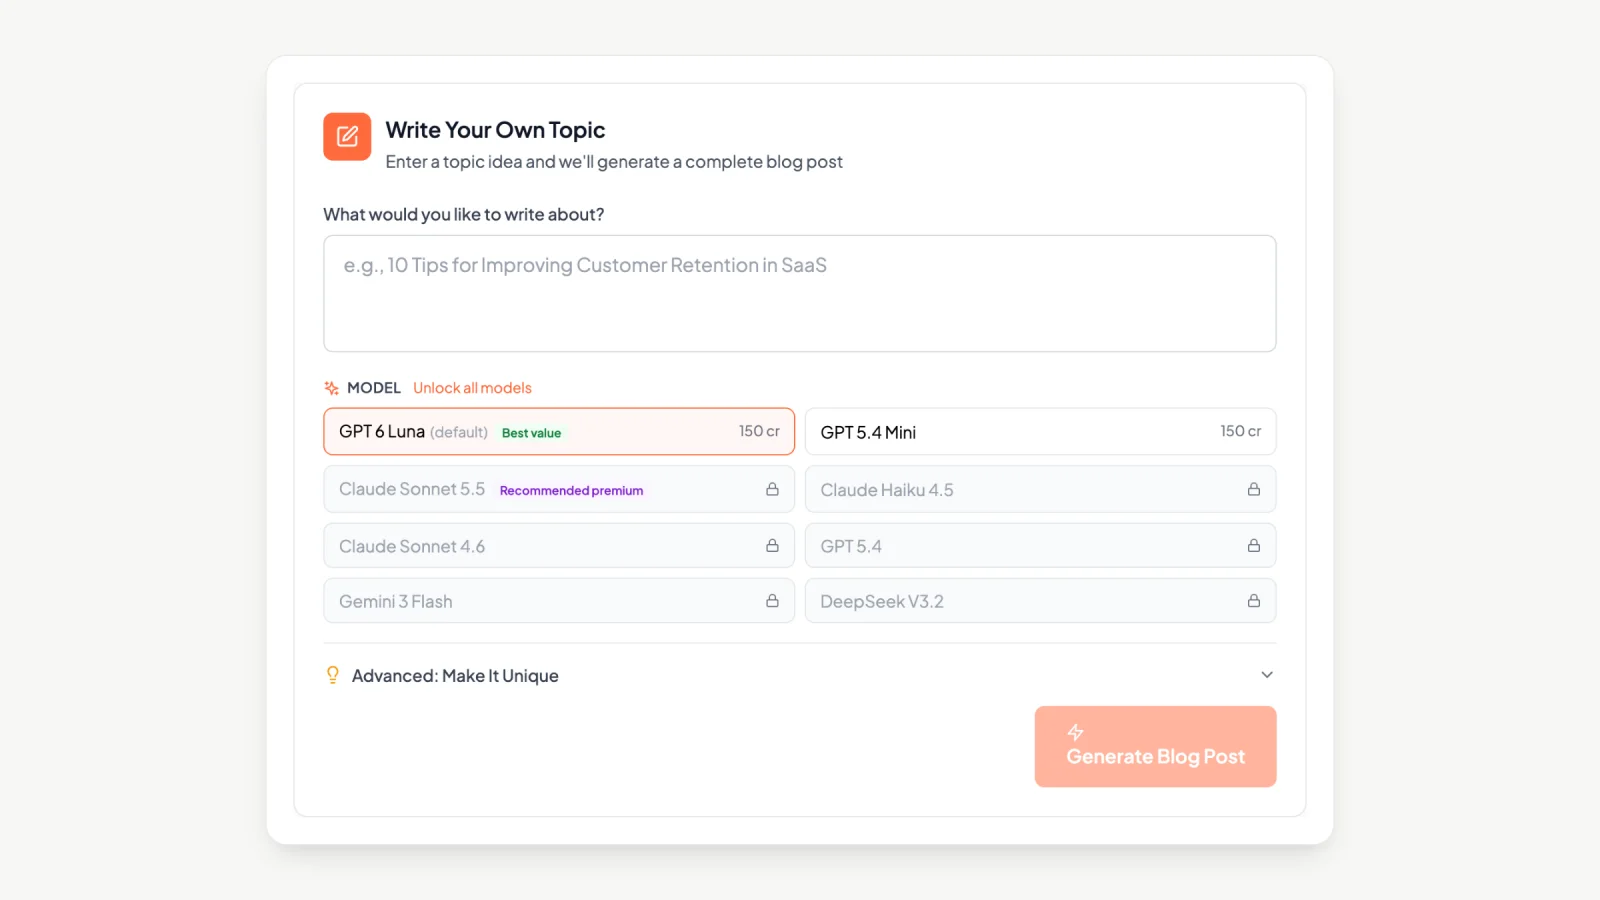
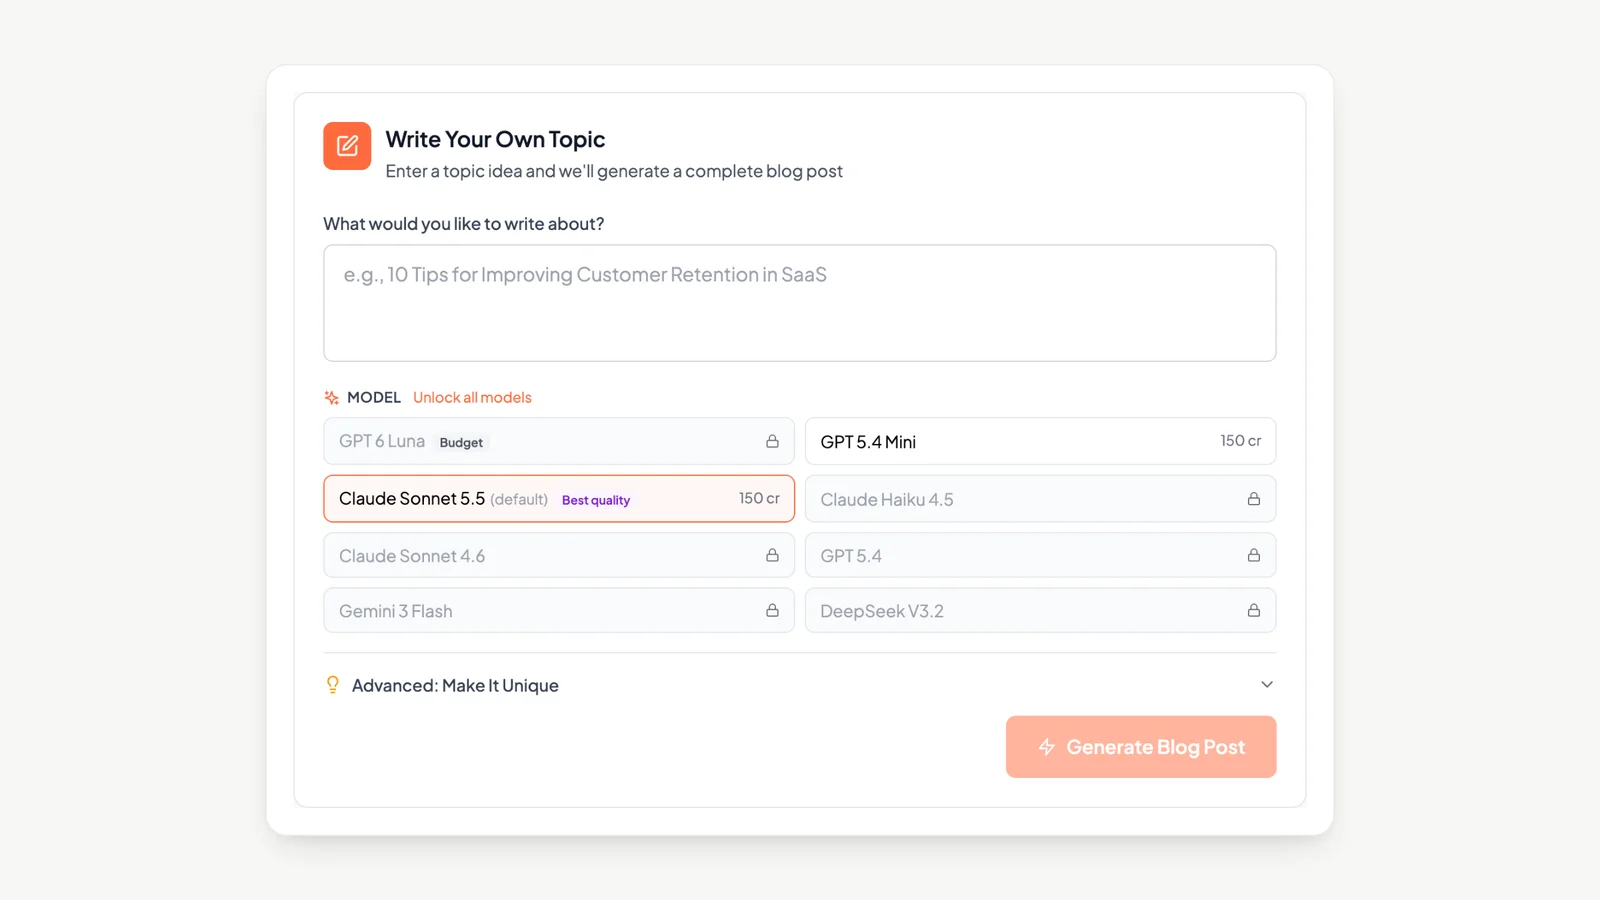
Retake product shots with the Harbor & Pine example post
Replace the old "Google Ranking Without an Index" post in the homepage
showcase, How It Works step 3, the SEO meta slide and the guide graphics
with the water-heater draft written for the made-up Harbor & Pine
Plumbing. Retake the model pickers so they show Claude Sonnet 5.5 as the
default. Update alt text and captions to match, and the llms.txt line for
the SEO MCP post (15 tools, 10 read-only).

diff --git a/lib/product-shots.ts b/lib/product-shots.ts
@@ -19,8 +19,8 @@ const shot = (file: string, width: number, height: number, alt: string, caption:
 
 export const SHOWCASE_WIDE = shot(
   "showcase-wide.webp", 1600, 574,
-  "Draftly's setup screen with draftly.blog entered as the website URL, and the finished blog post it produced one to two minutes later: 1,296 words, an SEO score of 75 out of 100, and the opening section of the article",
-  "A website URL in, a 1,296-word draft with an SEO score out, in one to two minutes.",
+  "Draftly's setup screen with harborandpineplumbing.com entered as the website URL, beside an example draft Claude Sonnet 5.5 wrote for Harbor & Pine Plumbing, a made-up plumber: How Often to Flush a Water Heater: A Homeowner's Guide, 1,118 words, an SEO score of 60 out of 100, and the opening section of the article",
+  "A website URL in, a 1,118-word draft with an SEO score out, in one to two minutes.",
 );
 export const SHOWCASE_TALL = shot("showcase-tall.webp", 800, 1125, SHOWCASE_WIDE.alt, SHOWCASE_WIDE.caption);
 
@@ -33,8 +33,8 @@ export const STEP_SHOTS: ProductShot[] = [
     "Draftly's Blog Inspiration panel listing trending industry articles from Search Engine Journal, each with an Add Your Take button",
     "Trending articles from your industry, each one a click away from a post."),
   shot("how-3-post.webp", 900, 614,
-    "A Draftly draft titled Google ranking without an index: what it means for your SEO, with question-style subheadings and a linked source",
-    "The draft: question-style headings, a cited source and plain sentences."),
+    "A Draftly draft titled How Often to Flush a Water Heater: A Homeowner's Guide, opening with question-style subheadings such as How often should you flush your water heater? and Why does a water heater need a flush?",
+    "The draft: question-style headings, the answer first and plain sentences."),
 ];
 
 /** The homepage feature carousel: number, title and description sit above each equal-size (4:3) image. */
@@ -53,16 +53,16 @@ export const FEATURE_SLIDES: FeatureSlide[] = [
   },
   {
     title: "Your topic, your model",
-    description: "Type any topic and pick the model that writes it. GPT 6 Luna is the default, and paid plans unlock Claude, Gemini and DeepSeek.",
+    description: "Type any topic and pick the model that writes it. Claude Sonnet 5.5 is the default, and paid plans unlock the rest, including GPT 6 Luna, Gemini and DeepSeek.",
     shot: shot("feature-slide-models.webp", 1600, 1200,
-      "Draftly's Write Your Own Topic screen with a topic box and a model picker: GPT 6 Luna (default), GPT 5.4 Mini, Claude Sonnet 5.5, Claude Haiku 4.5, Claude Sonnet 4.6, GPT 5.4, Gemini 3 Flash and DeepSeek V3.2",
-      "Pick the model per post. Paid plans unlock Claude, Gemini and DeepSeek."),
+      "Draftly's Write Your Own Topic screen on the Free plan with a topic box and a model picker: Claude Sonnet 5.5 (default, Best quality, 150 credits) selected, GPT 5.4 Mini at 150 credits, and GPT 6 Luna (Budget), Claude Haiku 4.5, Claude Sonnet 4.6, GPT 5.4, Gemini 3 Flash and DeepSeek V3.2 locked",
+      "Pick the model per post. Paid plans unlock the rest, including GPT 6 Luna, Gemini and DeepSeek."),
   },
   {
     title: "SEO meta, drafted every time",
     description: "Every draft comes with a URL slug, a meta title and a meta description, sized for how they show in Google.",
     shot: shot("feature-slide-meta.webp", 1600, 1200,
-      "SEO fields Draftly wrote for a post (URL slug, meta title and meta description) and a preview of how that title and description can appear in a Google result",
+      "SEO fields Draftly wrote for an example water heater post (URL slug how-often-to-flush-water-heater, meta title and meta description) and a preview of how that title and description can appear in a Google result for a made-up plumber, Harbor & Pine Plumbing",
       "Slug, meta title and meta description come with every draft."),
   },
 ];
@@ -70,7 +70,7 @@ export const FEATURE_SLIDES: FeatureSlide[] = [
 /** Equal 16:10 thumbnails for the homepage guide cards, keyed by destination. */
 export const GUIDE_THUMBS: Record<string, ProductShot> = {
   "/ai-copywriter": shot("guide-thumb-ai-copywriter.webp", 1280, 800,
-    "Preview of the AI copywriter page: a website URL going into Draftly and a finished 1,296-word draft coming out", ""),
+    "Preview of the AI copywriter page: a website URL going into Draftly and a finished 1,118-word draft about flushing a water heater coming out", ""),
   "/seo-copywriting": shot("guide-thumb-seo-copywriting.webp", 1280, 800,
     "Preview of the SEO copywriting rules page: a generic AI paragraph with four flagged rules beside a Draftly draft with none", ""),
   "/best-ai-for-writing": shot("guide-thumb-best-ai.webp", 1280, 800,
@@ -92,8 +92,8 @@ export const INTEGRATIONS_SHOT = shot(
 /** 16:9 graphics for the long-form guide pages (/ai-copywriter, /seo-copywriting, /ai-seo-agency-vs-tool). */
 export const GUIDE_SHOTS = {
   urlToPost: shot("guide-url-to-post.webp", 1600, 900,
-    "Draftly's setup screen with a website URL entered, and the finished post it produced: 1,296 words, SEO score 75/100, Draft status and the opening of the article",
-    "A real first run: a URL in, a 1,296-word draft with SEO meta out."),
+    "Draftly's setup screen with harborandpineplumbing.com entered, beside an example draft Claude Sonnet 5.5 wrote for that made-up plumber: How Often to Flush a Water Heater: A Homeowner's Guide, 1,118 words, SEO score 60/100, Draft status and the opening of the article",
+    "A URL in, a 1,118-word draft with SEO meta out. The example plumber is made up."),
   genericVsDraftly: shot("guide-generic-vs-draftly-copy.webp", 1600, 900,
     "A generic AI paragraph with flagged phrases highlighted (banned_vocabulary, contrast_phrasing, hedging, mechanical_openers) beside the opening of an example Draftly post about flushing a water heater, written by Claude Sonnet 5.5 for a made-up plumber, that triggers none of them",
     "Draftly's checker flags four rules in the generic paragraph and none in the example Draftly draft."),
@@ -101,11 +101,11 @@ export const GUIDE_SHOTS = {
     "Draftly's Voice and Tone sliders: Friendly 75, Authoritative 80, Formal 40, Technical 55 and Empathetic 85",
     "Brand voice sliders, set from your site and adjustable any time."),
   seoMeta: shot("guide-seo-meta-fields.webp", 1600, 900,
-    "SEO fields Draftly wrote for a post: URL slug, meta title and meta description",
+    "SEO fields Draftly wrote for an example water heater post: URL slug how-often-to-flush-water-heater, meta title How Often to Flush a Water Heater: A Homeowner's Guide, and meta description",
     "Slug, meta title and meta description come with every draft."),
   modelPicker: shot("guide-model-picker.webp", 1600, 900,
-    "Draftly's Create Blog Post screen with a model picker listing GPT, Claude, Gemini and DeepSeek models and their credit cost",
-    "Pick the model per post. Paid plans unlock Claude, Gemini and DeepSeek."),
+    "Draftly's Write Your Own Topic screen with a model picker: Claude Sonnet 5.5 selected as the default (Best quality, 150 credits), GPT 5.4 Mini at 150 credits, and GPT 6 Luna (Budget), Claude, GPT, Gemini and DeepSeek models locked on the Free plan",
+    "Pick the model per post. Paid plans unlock the rest, including GPT 6 Luna, Gemini and DeepSeek."),
 } satisfies Record<string, ProductShot>;
 
 export const ALL_PRODUCT_SHOTS = [SHOWCASE_WIDE, ...STEP_SHOTS, ...FEATURE_SLIDES.map((f) => f.shot), INTEGRATIONS_SHOT];

diff --git a/lib/llms.ts b/lib/llms.ts
@@ -55,7 +55,7 @@ ${toolsTable()}
 - [SEO Copywriting Rules](${SITE_URL}/seo-copywriting): The structure, voice and call-to-action rules Draftly checks on every post, with before and after examples from its benchmark.
 - [AI SEO Agency or AI SEO Tool](${SITE_URL}/ai-seo-agency-vs-tool): What an agency does that a tool does not, what a tool like Draftly covers, and a table for choosing between them.
 - [SEO MCP Server](${SITE_URL}/mcp): What an SEO MCP is, setup steps for each AI app, the tool list and data allowances by plan.
-- [How to Use an SEO MCP Server With Claude and ChatGPT](${SITE_URL}/blog/seo-mcp-server): What an SEO MCP server does, Draftly's 10 read-only tools by plan, example requests and setup for Claude, ChatGPT, Claude Code and Cursor.
+- [How to Use an SEO MCP Server With Claude and ChatGPT](${SITE_URL}/blog/seo-mcp-server): What an SEO MCP server does, Draftly's ${TOOLS.length} tools by plan (${READ_ONLY_TOOL_COUNT} read-only, plus tools that brief, check, edit and save drafts; none publishes), example requests and setup for Claude, ChatGPT, Claude Code and Cursor.
 - [AEO and GEO for Small Business Blogs in 2026](${SITE_URL}/blog/the-death-of-keyword-how-aeo-aio-is-leaving-keywords-behind): How to get a small business blog cited by ChatGPT, Claude and Google AI Overviews, based on Google's guidance, the GEO research paper and Pew's 2025 click data.
 - [Pricing](${SITE_URL}/pricing): Plans, credit costs and the AI models on each plan.
 - [Blog](${SITE_URL}/blog): Notes on AI writing, SEO and AEO for small businesses.
